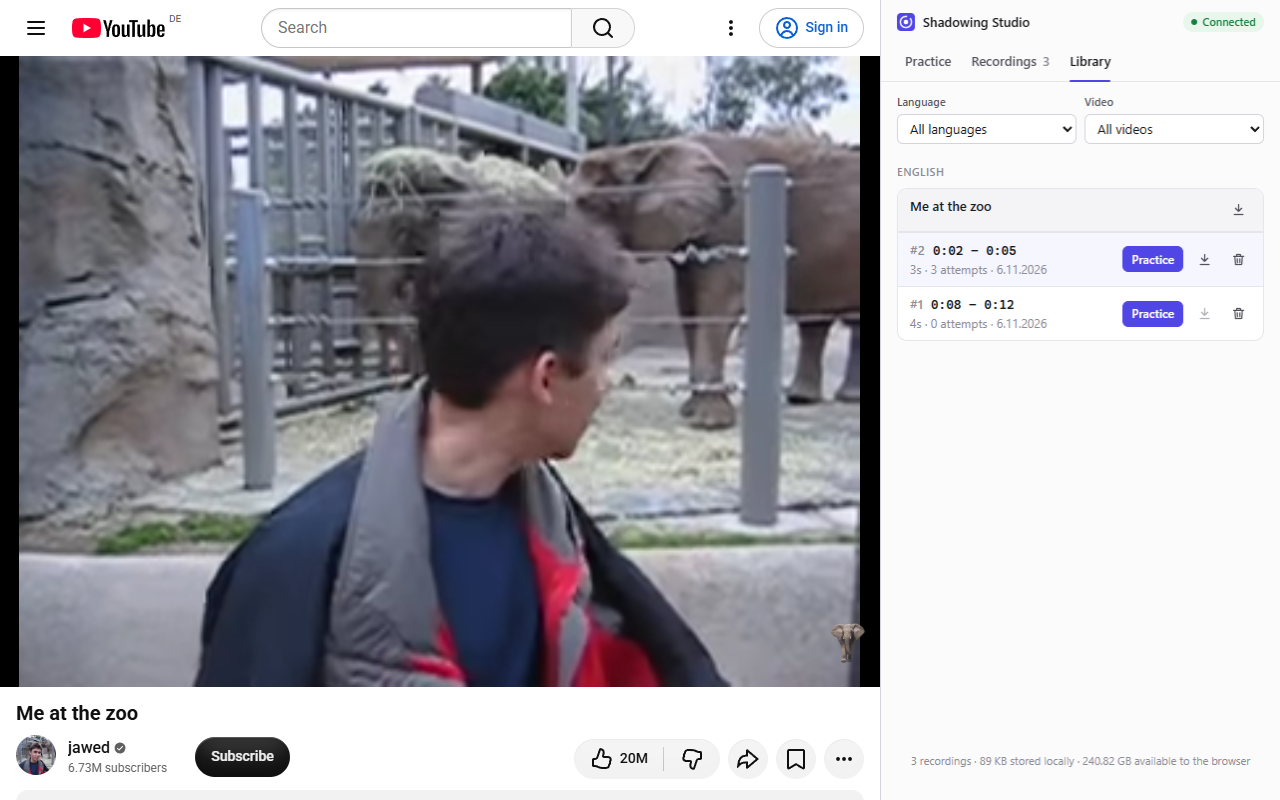
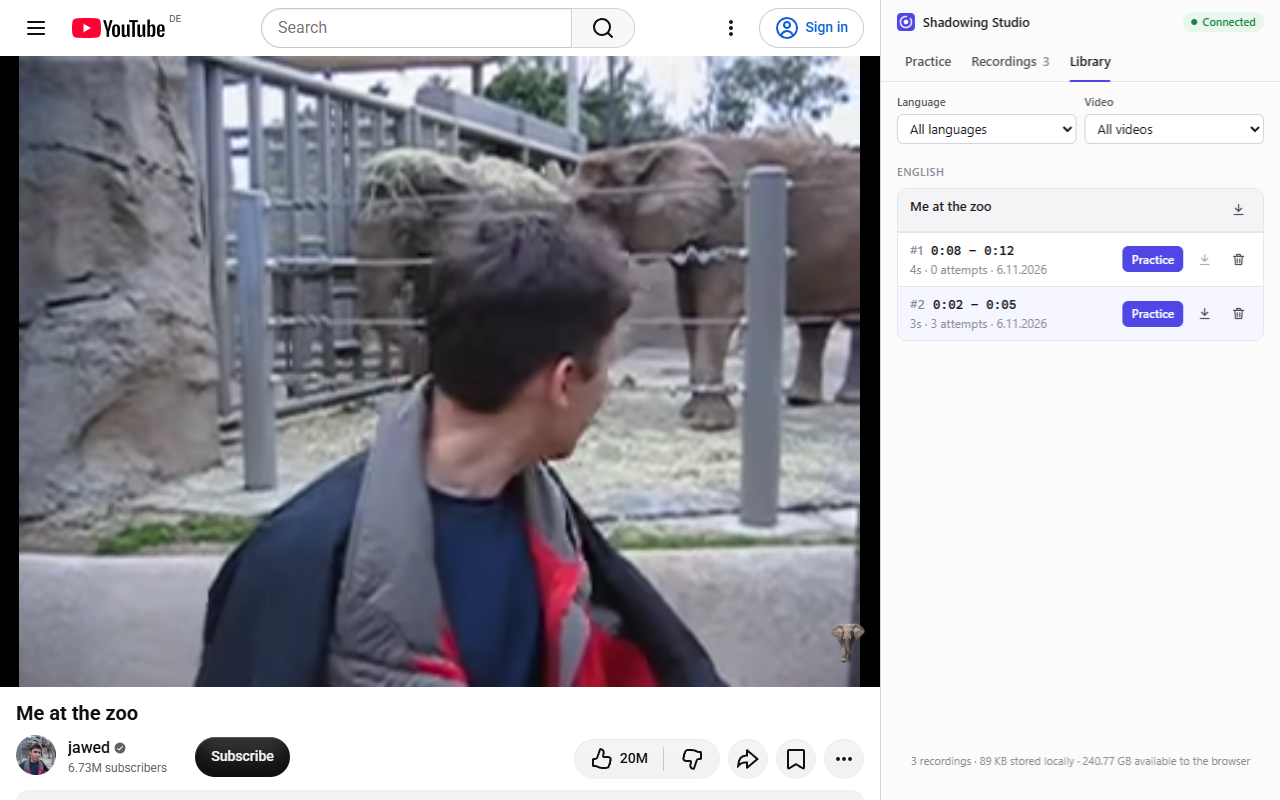
Record/Stop labels, matching buttons, pause after shadowing, segment order
- "Record attempt" is now "Record"; every stop button reads
  "Stop recording" with the stop icon
- Listen & repeat's recording button matches the shadowing one
- "New" is a regular button with a + icon, like Preview and Save
- Shadowing: the video pauses whenever the recording ends (Stop,
  auto-stop or error); without auto-stop it loops until then
- Library: segments ordered by their number (#1, #2, ...)
- e2e: checks for pausing after auto-stop and manual stop, and looping
  without auto-stop; docs and store screenshots updated

diff --git a/src/sidepanel/components/PracticeView.tsx b/src/sidepanel/components/PracticeView.tsx
@@ -242,8 +242,8 @@ function SegmentCard(p: PracticeViewProps & { player: PlayerState }) {
           <Icon name="save" /> {p.saveState === 'modified' ? 'Update' : 'Save'}
         </button>
         <span className="grow" />
-        <button type="button" className="btn btn-ghost" onClick={p.onReset} disabled={empty || busy} title="Clear the times to start a new segment">
-          New
+        <button type="button" className="btn" onClick={p.onReset} disabled={empty || busy} title="Clear the times to start a new segment">
+          <Icon name="plus" /> New
         </button>
       </div>
       {p.videoSegments.length > 0 && (
@@ -332,11 +332,11 @@ function RecordCard(p: PracticeViewProps) {
           <div className="row nowrap">
             {recording ? (
               <button type="button" className="btn btn-record recording" onClick={p.onStop}>
-                <Icon name="stop" /> Stop attempt
+                <Icon name="stop" /> Stop recording
               </button>
             ) : (
               <button type="button" className="btn btn-primary btn-record" onClick={p.onRecord} disabled={!canRecord}>
-                <Icon name="mic" /> {busy ? (p.recorderStatus === 'starting' ? 'Starting…' : 'Saving…') : 'Record attempt'}
+                <Icon name="mic" /> {busy ? (p.recorderStatus === 'starting' ? 'Starting…' : 'Saving…') : 'Record'}
               </button>
             )}
           </div>
@@ -361,9 +361,11 @@ function RecordCard(p: PracticeViewProps) {
 function RepeatControls(p: PracticeViewProps & { canRecord: boolean; busy: boolean; recording: boolean }) {
   if (p.recording) {
     return (
-      <button type="button" className="btn btn-record recording" onClick={p.onStop}>
-        <Icon name="stop" /> Stop recording
-      </button>
+      <div className="row nowrap">
+        <button type="button" className="btn btn-record recording" onClick={p.onStop}>
+          <Icon name="stop" /> Stop recording
+        </button>
+      </div>
     );
   }
   const step = p.phase === 'listening' ? 'Listening…' : p.phase === 'your-turn' ? 'Your turn — record your imitation.' : p.phase === 'done' ? 'Saved. Listen again or record another attempt.' : 'Step 1: listen. Step 2: record.';

diff --git a/src/sidepanel/App.tsx b/src/sidepanel/App.tsx
@@ -75,6 +75,8 @@ export function App() {
   const connRef = useRef<PlayerConnection | null>(null);
   const pendingRef = useRef<Segment | null>(null);
   const autoStopRef = useRef(false);
+  /** True while a shadowing attempt drives the video; when that recording ends, the video pauses. */
+  const shadowPlaybackRef = useRef(false);
 
   const send = useCallback((cmd: PlayerCommand) => connRef.current?.send(cmd) ?? false, []);
   const attemptPlayer = useAttemptPlayer(() => {
@@ -93,7 +95,14 @@ export function App() {
         fixDuration,
       },
       {
-        onStatus: setRecStatus,
+        onStatus: (status) => {
+          setRecStatus(status);
+          // However the attempt ended (Stop, auto-stop, error), stop the looping video with it.
+          if (status === 'idle' && shadowPlaybackRef.current) {
+            shadowPlaybackRef.current = false;
+            connRef.current?.send({ type: 'pause' });
+          }
+        },
         onSaved: (rec) => live.current.onSaved(rec),
         onError: (err) => setNotice({ tone: 'error', text: err.message }),
         onUnsaved: (blob, mimeType, err) => {
@@ -315,6 +324,7 @@ export function App() {
     }
     if (shadowing) {
       autoStopRef.current = settings.autoStop;
+      shadowPlaybackRef.current = true;
       send({ type: 'playSegment', mode: 'loop' });
     }
   }

diff --git a/src/sidepanel/components/LibraryView.tsx b/src/sidepanel/components/LibraryView.tsx
@@ -78,7 +78,7 @@ export function LibraryView(p: LibraryViewProps) {
       .map(([lang, videos]) => ({
         language: lang,
         videos: [...videos.values()]
-          .map((v) => ({ ...v, segments: v.segments.sort((a, b) => a.start - b.start) }))
+          .map((v) => ({ ...v, segments: v.segments.sort((a, b) => a.number - b.number) }))
           .sort((a, b) => byTitle(a.title, b.title)),
       }));
   }, [segments, language, videoId]);

diff --git a/src/sidepanel/components/ui.tsx b/src/sidepanel/components/ui.tsx
@@ -30,6 +30,7 @@ const ICONS = {
   reload: <path d="M20 11a8 8 0 1 0-2.3 5.7M20 4v7h-7" />,
   ear: <path d="M6 9a6 6 0 1 1 12 0c0 3-2 4-3 5.5S14 18 12 20a3 3 0 0 1-4-1M10 9a2 2 0 1 1 4 0" />,
   save: <path d="M5 4h11l3 3v13H5zM8 4v5h7V4M8 20v-6h8v6" />,
+  plus: <path d="M12 5v14M5 12h14" />,
   notes: <path d="M5 4h14v16H5zM8 9h8M8 13h8M8 17h5" />,
 } as const;
 

diff --git a/README.md b/README.md
@@ -13,15 +13,17 @@ practice library. No account, no cloud: recordings stay on your computer.
 - **Looping**: replays the segment indefinitely, at any playback speed, without fighting YouTube's
   own controls. Looping keeps running if you close the panel.
 - **Two practice modes**
-  - *Shadowing*: speak along while the segment loops. *Record attempt* restarts the segment and
-    records your microphone (by default it stops at the end of the segment).
+  - *Shadowing*: speak along while the segment loops. *Record* restarts the segment and
+    records your microphone. By default it stops at the end of the segment; with auto-stop off the
+    segment keeps looping until you press *Stop recording*. Either way the video pauses when the
+    recording ends.
   - *Listen & repeat*: *Listen* plays the segment once and pauses; then *Record* your imitation;
     *Listen again* for the next try.
 - **Attempts**: unlimited independent recordings per segment, each with attempt number, date, time and
   duration. You can rename them, add notes, delete them and play them; *Play original* replays the
   YouTube segment so you can compare by ear.
 - **Library**: organised by Language → Video → Segment (languages and videos in alphabetical order,
-  segments without a language last under *Unsorted*), with language and video filters. *Practice*
+  segments without a language last under *Unsorted*; segments in the order they were created, #1, #2…), with language and video filters. *Practice*
   reopens the video at the segment and restores it.
 - **Export** to `Downloads/Shadowing Studio/<Language>/<Video>/`, e.g.
   `2026-11-06_14-03-09_My-Video_Segment01_Attempt02.webm`. You can export one attempt, a whole segment
@@ -147,7 +149,7 @@ a REC badge on the toolbar icon show it is active.
 - `filename.test.ts`: sanitisation, reserved names, export paths, de-duplication, `info.json`.
 
 `npm run test:e2e` drives your installed Chrome (via `playwright-core`; no browser download) against a real
-YouTube video with Chrome's **fake microphone**. It runs 36 checks, all passing on the last run: install,
+YouTube video with Chrome's **fake microphone**. It runs 39 checks, all passing on the last run: install,
 connect, timestamps, loop bounds at 0.5×/1×/2×, loop off, REC badge, shadowing auto-stop, listen & repeat
 pause and record, decoded WebM/Opus audio with a duration header, playback, rename, attempt highlighting, play original, toasts, export folder
 structure, delete, SPA navigation, no console errors, **library and recordings after restarting Chrome**,
@@ -168,13 +170,13 @@ Run this once per release in a normal Chrome profile:
    reconnects.
 3. **Old tab**: with a YouTube tab open, reload the extension in `chrome://extensions`. The panel shows
    *Reload tab*; click it and it reconnects.
-4. **Microphone permission**: click *Enable microphone* or *Record attempt*. Allow it in the prompt, or in
+4. **Microphone permission**: click *Enable microphone* or *Record*. Allow it in the prompt, or in
    the helper tab if one opens. The chip shows *Microphone ready*. Block it in site settings: the panel
    shows *Microphone access is blocked* with *Open settings*.
 5. **Segment and loop**: set start/end with ⌖ while playing; type an invalid end (before the start) and
    see the error. Turn on *Loop segment*, watch it at 0.5×, 1× and 2× (YouTube's speed menu) for a few
    passes; pause and resume from the YouTube controls; seek outside the segment (it snaps back).
-6. **Shadowing**: with headphones, *Record attempt*. The REC chip, timer, the browser's mic indicator and
+6. **Shadowing**: with headphones, *Record*. The REC chip, timer, the browser's mic indicator and
    the toolbar badge all show; it stops at the segment end. Record a second attempt: both are listed.
 7. **Listen & repeat**: *Listen*: it pauses at the end and shows *Your turn*. *Record*, speak, *Stop
    recording*. *Listen again* works.

diff --git a/ARCHITECTURE.md b/ARCHITECTURE.md
@@ -125,9 +125,10 @@ typed message contracts (`messages.ts`) that both ends of each port import.
 
 ## Practice modes
 
-* **Shadowing (simultaneous)**: *Record attempt* starts the recorder, then seeks to the segment
+* **Shadowing (simultaneous)**: *Record* starts the recorder, then seeks to the segment
   start and plays with the loop on. With *auto-stop* (default) the attempt ends when the segment
-  ends; otherwise the user stops it. Only the microphone is recorded; headphones are recommended
+  ends; otherwise it loops until the user stops it. The video pauses whenever the attempt ends
+  (stop, auto-stop or an error). Only the microphone is recorded; headphones are recommended
   so the speakers don't leak into the mic.
 * **Listen & repeat**: *Listen* plays the segment once (`once` mode pauses at the end). The panel
   then prompts *Record imitation*; after stopping, *Listen again* restarts the cycle.
